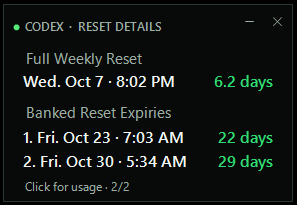
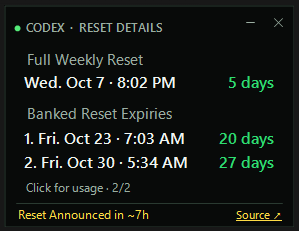
Update screenshots for reset announcement layouts

diff --git a/README.md b/README.md
@@ -4,15 +4,15 @@
 
 CodexBar itself requires no login, API key, or account setup—it automatically reuses your existing signed-in Codex session. Its main face shows remaining weekly capacity, average daily usage, and an estimated forecast. Click to switch to the reset-details face, with larger dates and times for the next weekly reset and every available banked reset expiry. It stays out of the way as a compact, draggable widget and continues updating from the Windows notification area.
 
-**Usage overview**
+**Usage overview — Crown layout**
 
-![CodexBar showing weekly capacity remaining, daily average and estimated remaining capacity at reset](assets/usage-overview.png)
+![CodexBar showing weekly capacity remaining, daily average, estimated remaining capacity at reset and a yellow reset-announcement crown](assets/usage-overview.png)
 
-**Reset details**
+**Reset details — Bottom layout**
 
-![CodexBar showing the weekly reset and banked reset expiry dates with time remaining](assets/reset-details.png)
+![CodexBar showing weekly and banked reset dates with time remaining, plus a yellow reset-announcement row and Source link](assets/reset-details.png)
 
-These screenshots show the usage and reset-details body. The current build adds a 24-pixel announcement strip above or below it, as described below.
+These examples demonstrate both announcement layouts. Choose **Reset announcements → Crown/Bottom** from the menu; the saved choice applies to both faces.
 
 ## Highlights
 
